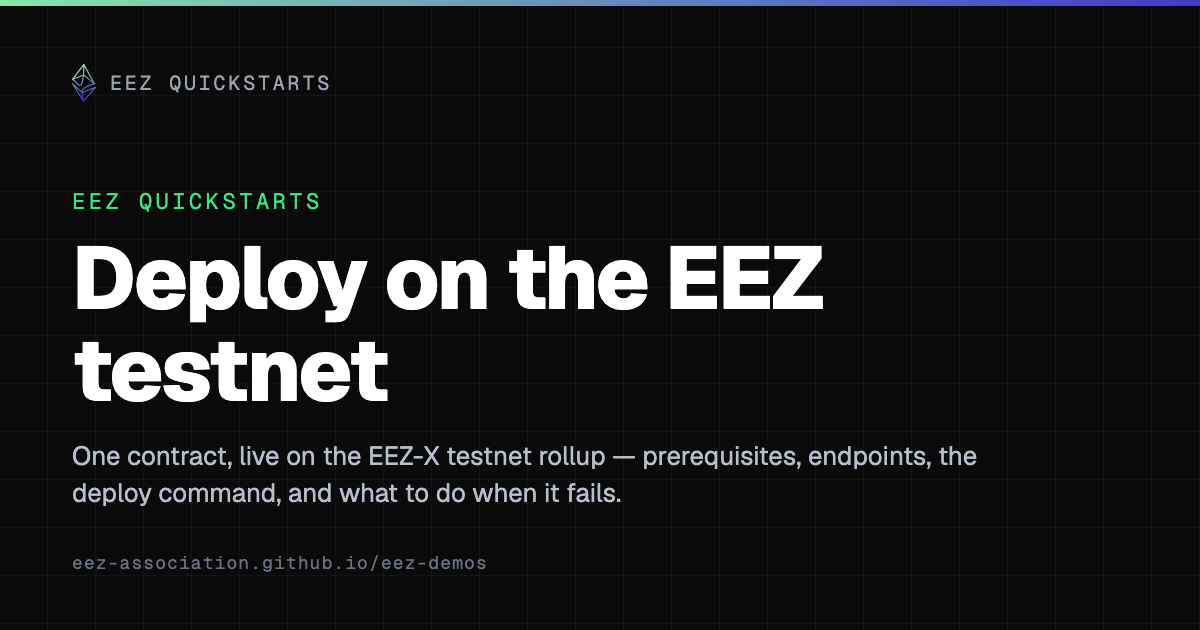
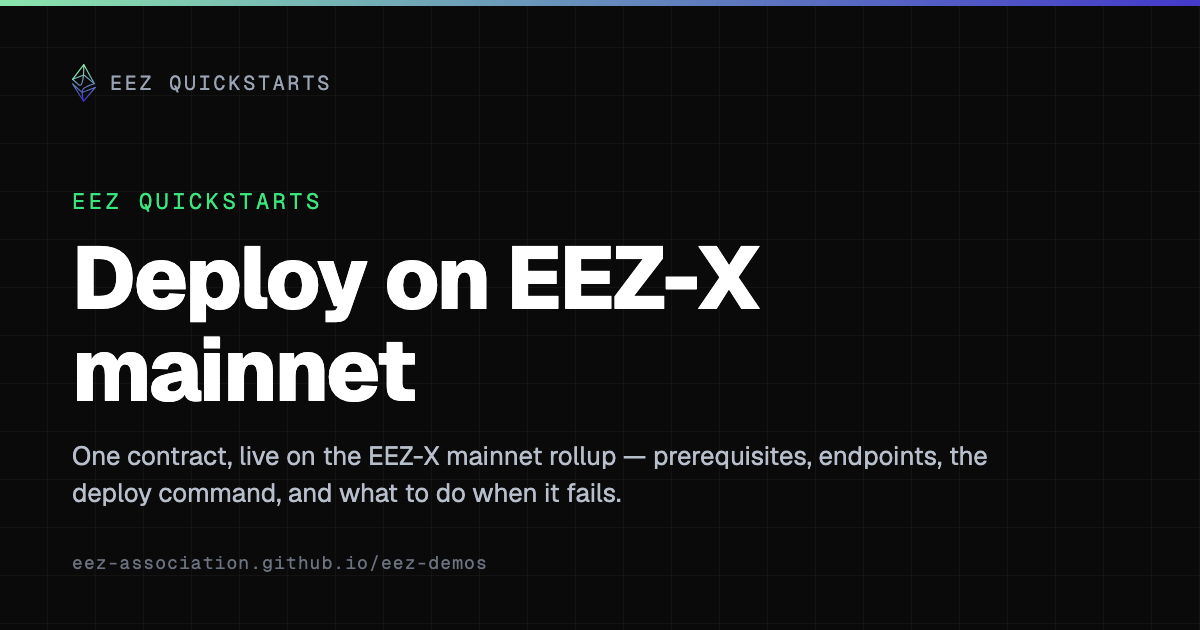
Point devnet links and the deploy page at EEZ-X mainnet
Dashboard links (index, start-here, qs1, qs8, deploy) now go to
https://mainnet.eez.dev/dashboard/. deploy.html and
assets/network-config.js (was testnet-config.js) use the mainnet
endpoints, chain ids 1 / 696990 and the L1 manager on Ethereum, checked
against mainnet.eez.dev/dashboard/config.json and the live RPCs on
2026-10-21. Funding is ETH on Ethereum, with a real-ETH warning.

Changed region(s): [[0.4008, 0.3619, 0.7092, 0.5127], [0.0617, 0.5127, 0.37, 0.6635], [0.37, 0.6937, 0.8325, 0.754]]

diff --git a/deploy.html b/deploy.html
@@ -1,21 +1,21 @@
 <!DOCTYPE html>
 <html lang="en"><head>
 <meta charset="utf-8"><meta name="viewport" content="width=device-width, initial-scale=1">
-<title>Deploy on the EEZ testnet — EEZ Quickstarts</title>
+<title>Deploy on EEZ-X mainnet — EEZ Quickstarts</title>
 <link rel="canonical" href="https://eez-association.github.io/eez-demos/deploy.html">
 <!-- og: generated by scripts/build-og.cjs -->
 <meta property="og:type" content="website">
 <meta property="og:site_name" content="EEZ Quickstarts">
-<meta property="og:title" content="Deploy on the EEZ testnet — EEZ Quickstarts">
-<meta property="og:description" content="One contract, live on the EEZ-X testnet rollup — prerequisites, endpoints, the deploy command, and what to do when it fails.">
+<meta property="og:title" content="Deploy on EEZ-X mainnet — EEZ Quickstarts">
+<meta property="og:description" content="One contract, live on the EEZ-X mainnet rollup — prerequisites, endpoints, the deploy command, and what to do when it fails.">
 <meta property="og:url" content="https://eez-association.github.io/eez-demos/deploy.html">
 <meta property="og:image" content="https://eez-association.github.io/eez-demos/assets/og/deploy.png">
 <meta property="og:image:width" content="1200">
 <meta property="og:image:height" content="630">
-<meta property="og:image:alt" content="Deploy on the EEZ testnet — EEZ Quickstarts">
+<meta property="og:image:alt" content="Deploy on EEZ-X mainnet — EEZ Quickstarts">
 <meta name="twitter:card" content="summary_large_image">
 <!-- /og -->
-<meta name="description" content="One contract, live on the EEZ-X testnet rollup — prerequisites, endpoints, the deploy command, and what to do when it fails.">
+<meta name="description" content="One contract, live on the EEZ-X mainnet rollup — prerequisites, endpoints, the deploy command, and what to do when it fails.">
 <link rel="icon" type="image/svg+xml" href="favicon.svg">
 <link rel="alternate" type="text/markdown" href="llms.txt" title="llms.txt — agent-readable index">
 <link rel="preconnect" href="https://fonts.googleapis.com"><link rel="preconnect" href="https://fonts.gstatic.com" crossorigin>
@@ -145,11 +145,11 @@ td.n{white-space:nowrap}
     <span class="pill">PRE-MAINNET</span>
   </div>
 
-  <h1>Deploy on the EEZ testnet</h1>
-  <p class="lede">Five steps, one contract live on the EEZ-X testnet rollup. Everything you need is on this page &mdash; the walkthroughs explain <em>why</em> it works, and none of them are prerequisites.</p>
+  <h1>Deploy on EEZ-X mainnet</h1>
+  <p class="lede">Five steps, one contract live on the EEZ-X mainnet rollup. Everything you need is on this page &mdash; the walkthroughs explain <em>why</em> it works, and none of them are prerequisites.</p>
 
   <div class="banner" id="testnetNote">
-    <b>The EEZ-X testnet is live</b> on Chiado, with its dashboard at <a href="https://eez.dev/dashboard/" target="_blank" rel="noopener" style="color:#e6dcc0">eez.dev ↗</a>. Two things to know before you start: the deploy command in step 4 has not yet been run end to end against this testnet, and the testnet runs eez-core-protocol @ 855fe06, while the walkthroughs cite 9a1f815, 11 commits later. To see the protocol at 9a1f815 on your own machine first, <a href="./dapp-developers/qs1-run-your-first-round-trip.html" style="color:#e6dcc0">run the Quickstart locally</a>.
+    <b>EEZ-X is live on Ethereum mainnet</b>, with its dashboard at <a href="https://mainnet.eez.dev/dashboard/" target="_blank" rel="noopener" style="color:#e6dcc0">mainnet.eez.dev ↗</a>. Every transaction here spends real ETH. Two more things to know before you start: the deploy command in step 4 has not yet been run end to end against this network, and it runs eez-core-protocol @ 855fe06, while the walkthroughs cite 9a1f815, 11 commits later. To see the protocol at 9a1f815 on your own machine first, <a href="./dapp-developers/qs1-run-your-first-round-trip.html" style="color:#e6dcc0">run the Quickstart locally</a>.
   </div>
 
   <div class="steps">
@@ -173,14 +173,14 @@ td.n{white-space:nowrap}
     <section class="step">
       <div class="step-num" aria-hidden="true">2</div>
       <div class="step-body">
-        <h2 class="step-title">Fund a throwaway key</h2>
-        <p class="step-why">Get Chiado xDAI for the key from the <a href="https://faucet.gnosischain.com/?chain=chiado" target="_blank" rel="noopener">Gnosis Chiado faucet</a>. Import the key into a browser wallet, then move some xDAI to the EEZ-X rollup with the Bridge &amp; Calls tab of the <a href="https://eez.dev/dashboard/" target="_blank" rel="noopener">eez.dev dashboard</a>, a demo app on the testnet (it shows the rollup balance as ETH). Then import it into an encrypted local keystore. Enter the private key and a strong keystore password only at the hidden prompts; never put either secret in a command or environment variable:</p>
+        <h2 class="step-title">Fund a fresh key</h2>
+        <p class="step-why">Send the key a small amount of ETH on Ethereum mainnet, only what you are willing to spend. Import the key into a browser wallet, then move some ETH to the EEZ-X rollup with the Bridge &amp; Calls tab of the <a href="https://mainnet.eez.dev/dashboard/" target="_blank" rel="noopener">mainnet dashboard</a>, a demo app on the testnet (it shows the rollup balance as ETH). Then import it into an encrypted local keystore. Enter the private key and a strong keystore password only at the hidden prompts; never put either secret in a command or environment variable:</p>
         <div class="term">
           <div class="term-head"><span class="term-label">SHELL</span><button class="copybtn" type="button" data-copy-pre>COPY</button></div>
-<pre><span class="p">$ </span>cast wallet import eez-testnet --interactive
-<span class="p">$ </span>export ADDR=$(cast wallet address --account eez-testnet)</pre>
+<pre><span class="p">$ </span>cast wallet import eez-mainnet --interactive
+<span class="p">$ </span>export ADDR=$(cast wallet address --account eez-mainnet)</pre>
         </div>
-        <p class="warn">&#9888; Use a throwaway key. Never a key that holds real assets &mdash; testnet or not.</p>
+        <p class="warn">&#9888; This is mainnet: transactions cost real ETH. Use a fresh key that holds only what you plan to spend here.</p>
       </div>
     </section>
 
@@ -189,29 +189,29 @@ td.n{white-space:nowrap}
       <div class="step-num" aria-hidden="true">3</div>
       <div class="step-body">
         <h2 class="step-title">Point your shell at the network</h2>
-        <p class="step-why">Send transactions to the chain&rsquo;s <b>front</b> URL. It forwards ordinary transactions, like this deploy, unchanged and composes cross-chain ones; a cross-chain call sent to the direct RPC would bypass the composer. The front also answers the reads used below; the direct RPC is for reads and protocol tooling. The L2 manager is a genesis predeploy, read from the deployment&rsquo;s genesis profile (eez-rollupX @ 2c19e36 puts it at <a href="https://github.com/eez-association/eez-rollupX/blob/2c19e36bed2720c00f89841ccfca47ec7c921e06/scripts/update-eezl2-genesis.sh#L15"><code>0x4B27&hellip;402C</code></a>); the L1 manager is the testnet&rsquo;s EEZ contract on Chiado. Every URL, manager address and explorer in the table comes from the dashboard&rsquo;s own config; the chain ids are what <code>eth_chainId</code> returns on each RPC.</p>
+        <p class="step-why">Send transactions to the chain&rsquo;s <b>front</b> URL. It forwards ordinary transactions, like this deploy, unchanged and composes cross-chain ones; a cross-chain call sent to the direct RPC would bypass the composer. The front also answers the reads used below; the direct RPC is for reads and protocol tooling. The L2 manager is a genesis predeploy, read from the deployment&rsquo;s genesis profile (eez-rollupX @ 2c19e36 puts it at <a href="https://github.com/eez-association/eez-rollupX/blob/2c19e36bed2720c00f89841ccfca47ec7c921e06/scripts/update-eezl2-genesis.sh#L15"><code>0x4B27&hellip;402C</code></a>); the L1 manager is the EEZ contract on Ethereum mainnet. Every URL, manager address and explorer in the table comes from the dashboard&rsquo;s own config; the chain ids are what <code>eth_chainId</code> returns on each RPC.</p>
         <div class="netwrap">
         <table class="net">
           <tr><th>CHAIN</th><th>RPC URLS</th><th>CHAIN ID</th><th>EEZ MANAGER</th><th>EXPLORER</th></tr>
           <tr>
-            <td class="k">EEZ-X Testnet (L2)</td>
-            <td><div class="rl"><span class="rk">front</span><span class="val" data-val="l2.frontUrl">https://eez.dev/composer/l2</span><button class="copy" data-copy="l2.frontUrl">COPY</button></div><div class="rl"><span class="rk">reads</span><span class="val" data-val="l2.rpcUrl">https://eez.dev/rpc/l2</span><button class="copy" data-copy="l2.rpcUrl">COPY</button></div></td>
-            <td class="n"><span class="val" data-val="l2.chainId">699069</span></td>
+            <td class="k">EEZ-X Mainnet (L2)</td>
+            <td><div class="rl"><span class="rk">front</span><span class="val" data-val="l2.frontUrl">https://mainnet.eez.dev/composer/l2</span><button class="copy" data-copy="l2.frontUrl">COPY</button></div><div class="rl"><span class="rk">reads</span><span class="val" data-val="l2.rpcUrl">https://mainnet.eez.dev/rpc/l2</span><button class="copy" data-copy="l2.rpcUrl">COPY</button></div></td>
+            <td class="n"><span class="val" data-val="l2.chainId">696990</span></td>
             <td><span class="val" data-val="l2.managerAddress">0x4B2760F84B83d6b3829E30A7573B0172B6d6402C</span><button class="copy" data-copy="l2.managerAddress">COPY</button></td>
-            <td><span class="val" data-val="l2.explorer" data-link>eez.dev/explorer</span></td>
+            <td><span class="val" data-val="l2.explorer" data-link>mainnet.eez.dev/explorer</span></td>
           </tr>
           <tr>
-            <td class="k">Chiado (L1)</td>
-            <td><div class="rl"><span class="rk">front</span><span class="val" data-val="l1.frontUrl">https://eez.dev/composer/l1</span><button class="copy" data-copy="l1.frontUrl">COPY</button></div><div class="rl"><span class="rk">reads</span><span class="val" data-val="l1.rpcUrl">https://eez.dev/rpc/l1</span><button class="copy" data-copy="l1.rpcUrl">COPY</button></div></td>
-            <td class="n"><span class="val" data-val="l1.chainId">10200</span></td>
-            <td><span class="val" data-val="l1.managerAddress">0x96d6617629b90bdf275dd1d4888170ad5266fa33</span><button class="copy" data-copy="l1.managerAddress">COPY</button></td>
-            <td><span class="val" data-val="l1.explorer" data-link>gnosis-chiado.blockscout.com</span></td>
+            <td class="k">Ethereum (L1)</td>
+            <td><div class="rl"><span class="rk">front</span><span class="val" data-val="l1.frontUrl">https://mainnet.eez.dev/composer/l1</span><button class="copy" data-copy="l1.frontUrl">COPY</button></div><div class="rl"><span class="rk">reads</span><span class="val" data-val="l1.rpcUrl">https://mainnet.eez.dev/rpc/l1</span><button class="copy" data-copy="l1.rpcUrl">COPY</button></div></td>
+            <td class="n"><span class="val" data-val="l1.chainId">1</span></td>
+            <td><span class="val" data-val="l1.managerAddress">0x4b2760f84b83d6b3829e30a7573b0172b6d6402c</span><button class="copy" data-copy="l1.managerAddress">COPY</button></td>
+            <td><span class="val" data-val="l1.explorer" data-link>etherscan.io</span></td>
           </tr>
         </table>
         </div>
         <div class="term">
           <div class="term-head"><span class="term-label">SHELL &middot; THE L2 FRONT FROM THE TABLE</span><button class="copybtn" type="button" data-copy-pre>COPY</button></div>
-<pre><span class="p">$ </span>export EEZ_RPC=<span class="val" data-val="l2.frontUrl">https://eez.dev/composer/l2</span></pre>
+<pre><span class="p">$ </span>export EEZ_RPC=<span class="val" data-val="l2.frontUrl">https://mainnet.eez.dev/composer/l2</span></pre>
         </div>
       </div>
     </section>
@@ -224,7 +224,7 @@ td.n{white-space:nowrap}
         <p class="step-why">One command. <code>src/MyContract.sol</code> is whatever you're shipping. Without <code>--broadcast</code>, Foundry 1.7.1 only prints the unsigned transaction.</p>
         <div class="term">
           <div class="term-head"><span class="term-label">SHELL</span><button class="copybtn" type="button" data-copy-pre>COPY</button></div>
-<pre><span class="p">$ </span>forge create src/MyContract.sol:MyContract --rpc-url "$EEZ_RPC" --account eez-testnet --broadcast</pre>
+<pre><span class="p">$ </span>forge create src/MyContract.sol:MyContract --rpc-url "$EEZ_RPC" --account eez-mainnet --broadcast</pre>
         </div>
         <div class="term out">
           <div class="term-head"><span class="term-label">EXPECTED OUTPUT &middot; NOT A COMMAND</span></div>
@@ -246,7 +246,7 @@ Transaction hash: 0x&hellip;</pre>
       <div class="step-body">
         <h2 class="step-title">If it fails</h2>
         <div class="fails">
-          <div class="fail"><span class="sym">insufficient funds</span><p class="fix">The key isn't funded on the EEZ-X rollup &mdash; move xDAI over with the dashboard's Bridge &amp; Calls tab on <a href="https://eez.dev/dashboard/" target="_blank" rel="noopener">eez.dev</a>, then <code>cast balance $ADDR --rpc-url $EEZ_RPC</code> to confirm before retrying.</p></div>
+          <div class="fail"><span class="sym">insufficient funds</span><p class="fix">The key isn't funded on the EEZ-X rollup &mdash; move ETH over with the dashboard's Bridge &amp; Calls tab on <a href="https://mainnet.eez.dev/dashboard/" target="_blank" rel="noopener">mainnet.eez.dev</a>, then <code>cast balance $ADDR --rpc-url $EEZ_RPC</code> to confirm before retrying.</p></div>
           <div class="fail"><span class="sym">connection refused / timeout</span><p class="fix"><code>$EEZ_RPC</code> doesn't match the table in step 3 &mdash; re-copy it. <code>cast chain-id --rpc-url $EEZ_RPC</code> should print the chain id from the table.</p></div>
           <div class="fail"><span class="sym">nonce too low</span><p class="fix">An earlier transaction from this key is stuck or already mined &mdash; <code>cast nonce $ADDR --rpc-url $EEZ_RPC</code> to inspect, then resend.</p></div>
         </div>
@@ -293,10 +293,10 @@ Transaction hash: 0x&hellip;</pre>
   </div>
 
 </div>
-<script src="assets/testnet-config.js"></script>
+<script src="assets/network-config.js"></script>
 <script>
 (function(){
-  var cfg = window.EEZ_TESTNET; if(!cfg) return;
+  var cfg = window.EEZ_NETWORK; if(!cfg) return;
   var live = cfg.status === "live";
   function get(path){ return path.split(".").reduce(function(o,k){ return o && o[k]; }, cfg) || ""; }
 
@@ -330,7 +330,7 @@ Transaction hash: 0x&hellip;</pre>
   document.querySelectorAll("[data-copy-pre]").forEach(function(btn){
     if(btn.closest(".term").querySelector(".val.pending")){
       btn.disabled = true; btn.style.opacity = ".4"; btn.style.cursor = "not-allowed";
-      btn.title = "Fills in when the testnet endpoints go live";
+      btn.title = "Fills in when the network endpoints go live";
       return;
     }
     btn.addEventListener("click", function(){
@@ -351,7 +351,7 @@ Transaction hash: 0x&hellip;</pre>
 
   if(live && cfg.deployedAt){
     var pin = document.getElementById("pinLine");
-    if(pin) pin.insertAdjacentText("beforeend", " The testnet runs " + cfg.deployedAt + ".");
+    if(pin) pin.insertAdjacentText("beforeend", " The network runs " + cfg.deployedAt + ".");
   }
 })();
 </script>

diff --git a/assets/network-config.js b/assets/network-config.js
@@ -1,0 +1,36 @@
+// assets/network-config.js — the source of truth for the hosted EEZ-X network values.
+// deploy.html reads window.EEZ_NETWORK at render time and overwrites its
+// [data-val] spans, but those spans also carry the same values as fallback
+// text in the HTML. Change a value here AND in deploy.html's fallback text.
+//
+// Source: the EEZ-X Mainnet dashboard's own config, https://mainnet.eez.dev/dashboard/config.json,
+// checked 2026-10-21 with eth_chainId on each RPC and front and eth_getCode on each manager
+// (non-empty code on its own chain). Re-check both before changing a value.
+window.EEZ_NETWORK = {
+  status: "live", // "pending" | "live"
+  dashboard: "https://mainnet.eez.dev/dashboard/",
+  l2: {
+    name: "EEZ-X Mainnet (L2)",
+    rpcUrl: "https://mainnet.eez.dev/rpc/l2", // direct node RPC: reads and tooling
+    // Composer front (config.json l2FrontUrl): send wallet transactions here.
+    // Ordinary txs are forwarded unchanged, cross-chain ones are composed
+    // (eez-rollupX README.md:136-142, testing/public-gateway/README.md:28-30).
+    frontUrl: "https://mainnet.eez.dev/composer/l2",
+    chainId: "696990", // eth_chainId 0xaa29e
+    // EEZL2 proxy predeploy (config.json l2ContractAddress; also the genesis
+    // profile value, eez-rollupX scripts/update-eezl2-genesis.sh:15).
+    managerAddress: "0x4B2760F84B83d6b3829E30A7573B0172B6d6402C",
+    explorer: "https://mainnet.eez.dev/explorer",
+  },
+  l1: {
+    name: "Ethereum (L1)",
+    rpcUrl: "https://mainnet.eez.dev/rpc/l1",
+    frontUrl: "https://mainnet.eez.dev/composer/l1", // config.json l1FrontUrl
+    chainId: "1", // eth_chainId 0x1
+    managerAddress: "0x4b2760f84b83d6b3829e30a7573b0172b6d6402c", // EEZ (L1), config.json l1ContractAddress; rollupId 1; code present on Ethereum mainnet
+    explorer: "https://etherscan.io",
+  },
+  // The protocol commit the network runs (config.json protocolCommit). The
+  // walkthroughs cite 9a1f815, 11 commits later.
+  deployedAt: "eez-core-protocol @ 855fe06",
+};

diff --git a/dapp-developers/q8-read-a-remote-contracts-state.html b/dapp-developers/q8-read-a-remote-contracts-state.html
@@ -206,7 +206,7 @@
     <div style="display:flex;align-items:center;gap:22px;">
       <button id="btnHelp" type="button" title="How this page works" aria-label="How this page works" style="width:26px;height:26px;flex:none;background:#141414;border:1px solid #2a2a2a;border-radius:50%;color:var(--muted);font-family:var(--mono);font-size:13px;line-height:1;cursor:pointer;padding:0;">?</button>
       <div id="stepLabel" style="font-family:var(--mono);font-size:20px;color:var(--muted);letter-spacing:0.06em;">STEP 1 OF 3</div>
-      <a class="back hdr-rule" href="../deploy.html" style="border-left:1px solid #2a2a2a;padding-left:22px;">NEXT WALKTHROUGH: Deploy on the EEZ testnet →</a>
+      <a class="back hdr-rule" href="../deploy.html" style="border-left:1px solid #2a2a2a;padding-left:22px;">NEXT WALKTHROUGH: Deploy on EEZ-X mainnet →</a>
     </div>
   </div>
 
@@ -369,7 +369,7 @@
         <button id="btnPlay" class="btn-play" style="font-size:16px;font-weight:600;color:var(--eez-ink-on-grad);background:var(--eez-grad-btn) border-box;border:1px solid transparent;border-radius:100px;padding:12px 28px;cursor:pointer;min-width:120px;">▶ Play</button>
         <button id="btnNext" class="btn" style="font-size:16px;color:#d8d8d8;background:#141414;border:1px solid #2a2a2a;border-radius:100px;padding:12px 22px;cursor:pointer;">Next step ›</button>
         <div id="dots" style="display:flex;align-items:center;gap:7px;"></div>
-        <a id="nextDemo" class="next-demo" href="../deploy.html"><span class="next-demo-text"><span class="next-demo-k">UP NEXT</span><span class="next-demo-t">Deploy on the EEZ testnet</span></span><span class="next-demo-arr" aria-hidden="true">&rarr;</span></a>
+        <a id="nextDemo" class="next-demo" href="../deploy.html"><span class="next-demo-text"><span class="next-demo-k">UP NEXT</span><span class="next-demo-t">Deploy on EEZ-X mainnet</span></span><span class="next-demo-arr" aria-hidden="true">&rarr;</span></a>
       </div>
     </div>
   </div>

diff --git a/dapp-developers/qs1-run-your-first-round-trip.html b/dapp-developers/qs1-run-your-first-round-trip.html
@@ -366,7 +366,7 @@
       <h1 class="intro-title" id="introTitle">Run Your First Round Trip</h1>
       <p class="intro-lede">Clone eez-core-protocol at a pinned commit, build it, and run two scenarios on local anvil chains. In the first, a call starts on L1 and gets back the value from L2. In the second, the same call starts on L2 and gets back the value from L1. Locally, the script precomputes that value into the entry.</p>
       <p class="intro-lede">Needs Foundry 1.7.1 (<a href="https://book.getfoundry.sh/getting-started/installation" target="_blank" style="color:#d8d8d8;">install guide</a>), Git, jq and bash 4+. No Docker. About 5 minutes on an Apple M4, not counting a first-time solc download.</p>
-      <p style="margin:12px 0 0;font-family:var(--mono);font-size:12.5px;line-height:1.7;color:var(--muted);letter-spacing:0.02em;">Try it live: the Counter Demo on <a href="https://eez.dev/dashboard/#/counter-demo" target="_blank" rel="noopener" style="color:#d8d8d8;">eez.dev ↗</a></p>
+      <p style="margin:12px 0 0;font-family:var(--mono);font-size:12.5px;line-height:1.7;color:var(--muted);letter-spacing:0.02em;">Try it live: the Counter Demo on <a href="https://mainnet.eez.dev/dashboard/#/counter-demo" target="_blank" rel="noopener" style="color:#d8d8d8;">mainnet.eez.dev ↗</a></p>
       <div class="intro-learn-label">WHAT YOU'LL LEARN</div>
       <ul class="intro-learn">
         <li><b>01 · CLONE AT A FIXED COMMIT</b>Check out the exact commit these cards were run against, so your output matches theirs.</li>

diff --git a/dapp-developers/qs8-bridge-tokens-both-ways.html b/dapp-developers/qs8-bridge-tokens-both-ways.html
@@ -334,7 +334,7 @@
       <h1 class="intro-title" id="introTitle">Bridge Tokens Both Ways</h1>
       <p class="intro-lede">Run one ETH scenario per direction, L1 to L2 and L2 to L1, each on its own pair of chains, then run the test that sends an ERC-20 through Bridge.sol and back.</p>
       <p class="intro-lede">Then read how Bridge.sol does the same for ERC-20s: lock and mint going out, burn and release coming back. Bridge.sol is a test fixture, not a production bridge.</p>
-      <p style="margin:12px 0 0;font-family:var(--mono);font-size:12.5px;line-height:1.7;color:var(--muted);letter-spacing:0.02em;">Try it on testnet: the Bridge &amp; Calls tab on <a href="https://eez.dev/dashboard/" target="_blank" rel="noopener" style="color:#d8d8d8;">eez.dev ↗</a> drives a Bridge.sol deployment (protocol 855fe06)</p>
+      <p style="margin:12px 0 0;font-family:var(--mono);font-size:12.5px;line-height:1.7;color:var(--muted);letter-spacing:0.02em;">Try it on mainnet: the Bridge &amp; Calls tab on <a href="https://mainnet.eez.dev/dashboard/" target="_blank" rel="noopener" style="color:#d8d8d8;">mainnet.eez.dev ↗</a> drives a Bridge.sol deployment (protocol 855fe06)</p>
       <div class="intro-learn-label">WHAT YOU'LL LEARN</div>
       <ul class="intro-learn">
         <li><b>01 · RUN IT.</b>Both ETH directions and the token round trip pass from a fresh pinned clone.</li>

diff --git a/start-here.html b/start-here.html
@@ -97,7 +97,7 @@ code{font-family:var(--mono);font-size:.92em;color:#cfcfcf}
 
   <!-- ================= DAPP DEVELOPERS ================= -->
   <div class="sec-head"><h2 class="eyebrow">[ DAPP DEVELOPERS ]</h2></div>
-  <p class="sec-note">Start with the Quickstart: seven numbered cards in four phases, plus a coming-soon deploy card, from one call across two rollups to patterns you can copy. The EEZ-X testnet is live: try it on <a href="https://eez.dev/dashboard/" target="_blank" rel="noopener" style="color:#cfcfcf">eez.dev ↗</a>, or point Foundry at it with the <a href="./deploy.html" style="color:#cfcfcf">testnet deploy page</a>.</p>
+  <p class="sec-note">Start with the Quickstart: seven numbered cards in four phases, plus a coming-soon deploy card, from one call across two rollups to patterns you can copy. EEZ-X is live on Ethereum mainnet: try it on the <a href="https://mainnet.eez.dev/dashboard/" target="_blank" rel="noopener" style="color:#cfcfcf">mainnet dashboard ↗</a>, or point Foundry at it with the <a href="./deploy.html" style="color:#cfcfcf">deploy page</a>.</p>
 
   <div class="grid">
     <a class="card" href="./dapp-developers/qs0-one-call-two-rollups.html">

diff --git a/index.html b/index.html
@@ -142,7 +142,7 @@ h1 .l{font-weight:300;color:#dcdcdc}
     <nav class="navlinks" aria-label="Repository links">
       <a href="https://github.com/eez-association/eez-core-protocol">eez-core-protocol ↗</a>
       <a href="https://github.com/eez-association/eez-rollupX">eez-rollupX ↗</a>
-      <a href="https://eez.dev/dashboard/" target="_blank" rel="noopener">eez.dev testnet ↗</a>
+      <a href="https://mainnet.eez.dev/dashboard/" target="_blank" rel="noopener">EEZ-X mainnet ↗</a>
       <a href="https://github.com/eez-association/eez-demos/blob/main/CONTRIBUTING.md">Contribute ↗</a>
       <button id="btnHelp" type="button" title="How this page works" aria-label="How this page works" style="width:26px;height:26px;flex:none;background:#141414;border:1px solid #2a2a2a;border-radius:50%;color:var(--muted);font-family:var(--mono);font-size:13px;line-height:1;cursor:pointer;padding:0;">?</button>
       </nav>

diff --git a/dapp-developers/q6-why-you-cant-call-the-manager-directly.html b/dapp-developers/q6-why-you-cant-call-the-manager-directly.html
@@ -324,7 +324,7 @@
   var captions = [
     "Anyone can try calling the manager's entry point directly.",
     "It reverts — UnauthorizedProxy(). Only a real proxy gets through.",
-    "Both proxy entry points open with this check. It checks who is calling, not where the call goes: at 9a1f815 a second check, EEZDestinationForbidden (EEZBase.sol:404), also stops a cross-chain call from targeting the manager itself. The eez.dev testnet (855fe06) predates that check."
+    "Both proxy entry points open with this check. It checks who is calling, not where the call goes: at 9a1f815 a second check, EEZDestinationForbidden (EEZBase.sol:404), also stops a cross-chain call from targeting the manager itself. The EEZ-X mainnet deployment (855fe06) predates that check."
   ];
   var notes = [
     "",

diff --git a/PRODUCT.md b/PRODUCT.md
@@ -22,14 +22,14 @@ Success means a developer runs a cross-rollup round trip on their own machine, u
 
 It is the EEZ team's official hands-on learning layer and sits between two other surfaces:
 
-- **eez.dev** is the live EEZ-X testnet (Chiado L1). This site links out to it and doesn't duplicate its flows.
+- **mainnet.eez.dev** is the live EEZ-X network on Ethereum mainnet (dashboard: https://mainnet.eez.dev/dashboard/). This site links out to it and doesn't duplicate its flows. eez.dev is the older Chiado testnet.
 - **eez-core-protocol `docs/`** is the specification. This site teaches mechanics and cites the spec; it isn't a second spec.
 
 What a neighbor can't truthfully copy: every code panel is verbatim source cited at a pinned `file:line` and commit, checked mechanically in CI. Snippets compile and their Foundry tests pass. Nothing is pseudocode.
 
 ## Operating Context
 
-- Readers move between a walkthrough, their terminal (Foundry v1.7.1, `forge test`, the local e2e runner), the GitHub source the citations link to, and eez.dev.
+- Readers move between a walkthrough, their terminal (Foundry v1.7.1, `forge test`, the local e2e runner), the GitHub source the citations link to, and mainnet.eez.dev.
 - The offline path (snippets with no forge-std, no submodules, no Docker) has to work on a bare checkout.
 - Agents and LLMs consume the site through `llms.txt` / `llms-full.txt`, because the code panels render from JavaScript at runtime.
 
@@ -39,7 +39,7 @@ What a neighbor can't truthfully copy: every code panel is verbatim source cited
 - **Walkthrough format is fixed** (CONTRIBUTING.md): a 1920×1080 stage (diagram, code, caption, Prev/Play/Next), progressive `codeByStep` reveal, real data in diagrams, the `NEXT:` link chain, and the `scaleStage()` mobile floor. `pr5` is the template, and `scripts/new-demo.sh` scaffolds new pages from it.
 - **Card format:** an action-oriented title and a one-sentence hook that states the consequence, not the mechanism. No code on cards.
 - **Sources:** contracts come from `eez-core-protocol` and infra from `eez-rollupX`, both pinned by SHA. Pinned commits drift from upstream `main`, so check against the pin.
-- **Testnet facts:** EEZ-X runs on Chiado (L2 chain 699069). Launch L1 is Ethereum mainnet. The proof system in public source is dev-grade ECDSA (threshold 1), not production ZK, and `USE_GAS_LEFT` is off in every current deployment.
+- **Network facts:** EEZ-X runs on Ethereum mainnet (L1 chain 1, L2 chain 696990, protocol 855fe06). The older Chiado testnet (L2 chain 699069) is at eez.dev. The proof system in public source is dev-grade ECDSA (threshold 1), not production ZK, and `USE_GAS_LEFT` is off in every current deployment.
 - **Open decisions:**
   - whether to keep the hero phrase "as naturally as a same-chain call";
   - the unmeasured "DEPLOY A CONTRACT · ~15 MIN" pill;

diff --git a/DESIGN.md b/DESIGN.md
@@ -287,7 +287,7 @@ Quiet until touched. Grey at rest, with one gradient action per stage.
 
 ### Navigation
 - **Logo:** the full EEZ lockup (mark plus "Ethereum Economic Zone" wordmark) at 46px tall on the index from 641px up, so the wordmark stays legible; the mark alone (36px) on phones. Walkthrough headers carry the mark (26px stage px) plus "Quickstarts" as the link home. Never shrink the lockup below 46px: the wordmark becomes unreadable.
-- **Index header:** the EEZ logo on the left. Walkthroughs say PRE-MAINNET in the intro's verified-against line, with no header badge; the index has no PRE-MAINNET line. Mono 12px external links (`eez-core-protocol ↗`, `eez.dev testnet ↗`) in `#9A9A9A` on the right, going white on hover, plus a circular `?` help button. Wraps on narrow screens.
+- **Index header:** the EEZ logo on the left. Walkthroughs say PRE-MAINNET in the intro's verified-against line, with no header badge; the index has no PRE-MAINNET line. Mono 12px external links (`eez-core-protocol ↗`, `EEZ-X mainnet ↗`) in `#9A9A9A` on the right, going white on hover, plus a circular `?` help button. Wraps on narrow screens.
 - **Index entry:** no buttons under the hero. The Quickstart section heading, `Start with the basics` (Geist 800, 44px, 32px on phones), is the way in, with card 00 right under it. The page tour opens from the `?` button; operators and researchers filter with the chips.
 - **Page tour:** a modal dialog (`aria-modal`). Focus moves to Next on each step, Tab cycles inside the card, Esc or a click on the dim area closes it, every other key stays with the tour (the page's Space, r and / shortcuts don't act behind it), a second ? doesn't open a second tour, and focus returns to the button that opened it. On the index the card is 430px beside its target; under 640px it docks as a bottom sheet 16px from the edges, with the target scrolled near the top.
 - **Stage header:** the EEZ mark plus `Quickstarts` link home (mono 12px, Slate), title, `NEXT WALKTHROUGH: … →` link (nudges right), the `STEP 1 OF 3` counter (hidden on the lead-in, where no step has started) and `ALL QUICKSTARTS →`. The header link stays because it's the only way on while the lead-in hides the bottom bar.
